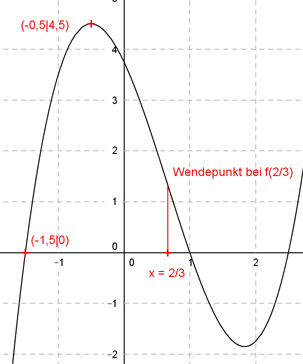
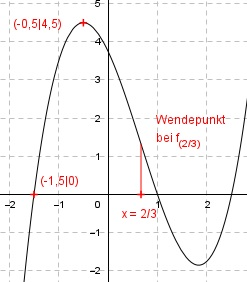
Add files via upload

diff --git a/Steck_Aufgabe43.html b/Steck_Aufgabe43.html
@@ -17,9 +17,9 @@
 
     <pre><p class ="Aufgabe"><b>Aufgabe 43
 
-Der Graph einer ganzrationalen Funktion 3. Grades 
+Der Graph einer ganzrationalen Funktion 3. Grades
 hat bei (3|0,8) einen Hochpunkt, an der Stelle 
-x = 4 einen Wendepunkt und eine Wendetangente mit 
+x = 4 einen Wendepunkt und eine Wendetangente mit
 der Steigung -0,6. 
 Wie lautet seine Funktionsgleichung?
 
@@ -41,7 +41,7 @@ bedeutet zum einen:
 
 f<sub>(3)</sub> = 0,8 --> 
 
-a * 3<sup>3</sup> + b * 3<sup>2</sup> + c * 3 + d = 0,8 -->  
+a * 3<sup>3</sup> + b * 3<sup>2</sup> + c * 3 + d = 0,8 -->
 
 27a + 9b + 3c + d = 0,8     I 
 

diff --git a/Steck_Aufgabe44.html b/Steck_Aufgabe44.html
@@ -39,7 +39,7 @@ f’’<sub>(x)</sub> = 6ax + 2b
  
 f<sub>(-1,5)</sub> = 0 --> 
 
-a * (-1,5)<sup>3</sup> + b * (-1,5)<sup>2</sup> + c * (-1,5) + d = 0 -->  
+a * (-1,5)<sup>3</sup> + b * (-1,5)<sup>2</sup> + c*(-1,5) + d = 0 -->  
 
  -3,375a + 2,25b - 1,5c + d = 0         I 
  
@@ -48,7 +48,7 @@ bedeutet zum einen:
  
 f<sub>(-0,5)</sub> = 4,5 --> 
 
-a * (-0,5)<sup>3</sup> + b * (-0,5)<sup>2</sup> + c * (-0,5) + d = 0 -->
+a * (-0,5)<sup>3</sup> + b * (-0,5)<sup>2</sup> + c*(-0,5) + d = 0 -->
 
  - 0,125a + 0,25b - 0,5c + d = 4,5       II  
  

diff --git a/Steck_Aufgabe46.html b/Steck_Aufgabe46.html
@@ -19,8 +19,8 @@
 
 Der Graph einer ganzrationalen Funktion 3. Grades 
 berührt die x-Achse an der Stelle x = -2 und hat 
-dort die Krümmung -2,5, die Tangente an der Stelle 
-x = 3 hat die Steigung 6,25. 
+dort die Krümmung -2,5, die Tangente an der 
+Stelle x = 3 hat die Steigung 6,25. 
 Wie lautet seine Funktionsgleichung? 
 
 <img src="Aufgabe46.jpg" >

diff --git a/Steck_Aufgabe41.html b/Steck_Aufgabe41.html
@@ -17,7 +17,7 @@
 
     <pre><p class ="Aufgabe"><b>Aufgabe 41
 
-Der Graph einer ganzrationalen Funktion 3. Grades 
+Der Graph einer ganzrationalen Funktion 3. Grades
 berührt an der Stelle x = 4 die x-Achse, hat bei 
 x = 8/3 einen Wendepunkt und eine Wendetangente 
 mit der Steigung -4/3. 

diff --git a/Steck_Aufgabe42.html b/Steck_Aufgabe42.html
@@ -17,7 +17,7 @@
 
     <pre><p class ="Aufgabe"><b>Aufgabe 42
 
-Der Graph einer ganzrationalen Funktion 3. Grades 
+Der Graph einer ganzrationalen Funktion 3. Grades
 berührt die x-Achse an der Stelle x = 4 und hat 
 bei (2|3) einen Wendepunkt. 
 Wie lautet seine Funktionsgleichung?

diff --git a/Steck_Aufgabe45.html b/Steck_Aufgabe45.html
@@ -17,7 +17,7 @@
 
     <pre><p class ="Aufgabe"><b>Aufgabe 45
 
-Der Graph einer ganzrationalen Funktion 3. Grades 
+Der Graph einer ganzrationalen Funktion 3. Grades
 schneidet die x-Achse bei -3, hat dort eine 
 Steigung von -12,5 und bei x = -4/3 und x = 2 
 Extremstellen.  

diff --git a/Steck_Aufgabe47.html b/Steck_Aufgabe47.html
@@ -17,7 +17,7 @@
 
     <pre><p class ="Aufgabe"><b>Aufgabe 47
 
-Der Graph einer ganzrationalen Funktion 3. Grades 
+Der Graph einer ganzrationalen Funktion 3. Grades
 schneidet die x-Achse bei -1, hat dort die 
 x-Achse als Tangente und einen Tiefpunkt bei 
 (0|-1). Wie lautet seine Funktionsgleichung? 

diff --git a/Steck_Aufgabe48.html b/Steck_Aufgabe48.html
@@ -17,7 +17,7 @@
 
     <pre><p class ="Aufgabe"><b>Aufgabe 48
 
-Der Graph einer ganzrationalen Funktion 3. Grades 
+Der Graph einer ganzrationalen Funktion 3. Grades
 hat einen Wendepunkt bei (-1|0), dort eine 
 waagerechte Tangente, und seine Steigung an der 
 Stelle x = 1 beträgt 12. 

diff --git a/Steck_Aufgabe49.html b/Steck_Aufgabe49.html
@@ -17,7 +17,7 @@
 
     <pre><p class ="Aufgabe"><b>Aufgabe 49
 
-Der Graph einer ganzrationalen Funktion 3. Grades 
+Der Graph einer ganzrationalen Funktion 3. Grades
 schneidet die x-Achse an der Stelle x = -1, die 
 y-Achse bei y = -4 und hat einen Wendepunkt 
 bei (1|-2). Wie lautet seine Funktionsgleichung?